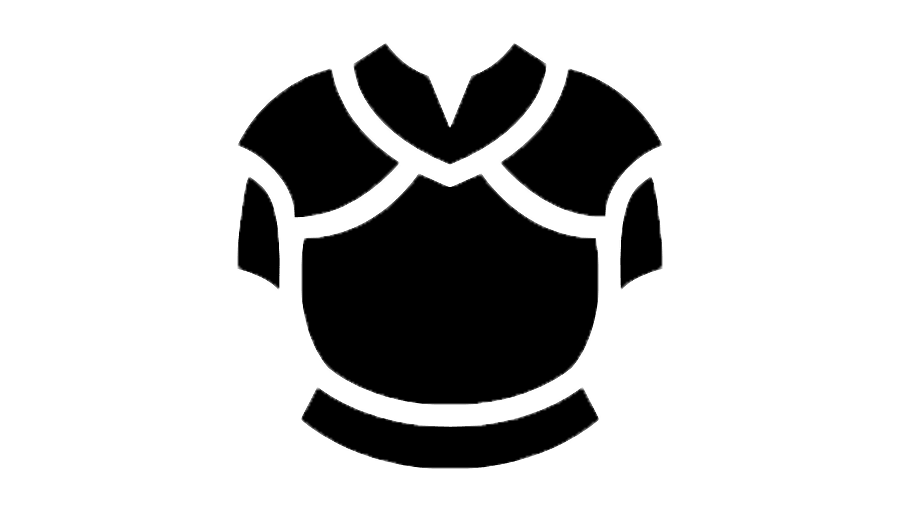
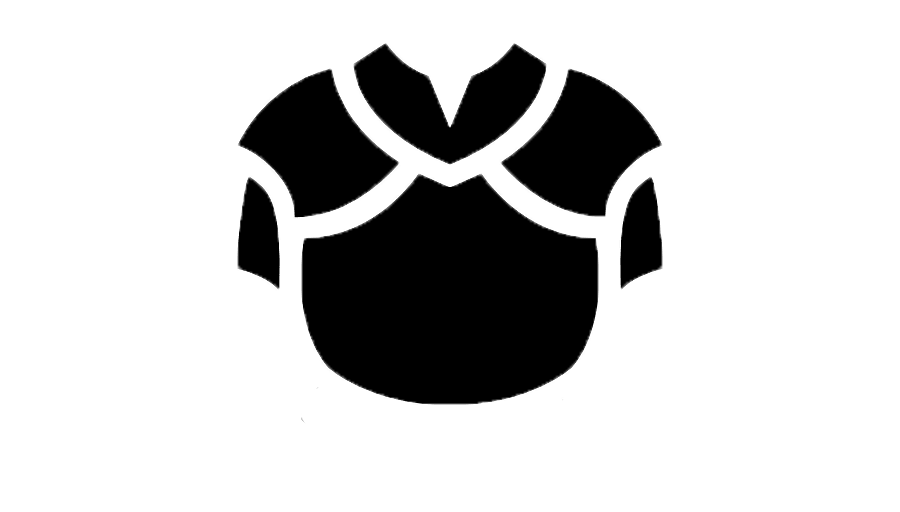
feat: added Constants for image paths feat: new Backside Box in selectedGearBox.fxml and iimplemented it in SelectedGearBoxController feat: new Images

Changed region(s): [[0.3422, 0.75, 0.6844, 0.9375]]

diff --git a/src/main/java/de/cLandow/dsaKampftool/controller/subcontroller/SelectedGearBoxController.java b/src/main/java/de/cLandow/dsaKampftool/controller/subcontroller/SelectedGearBoxController.java
@@ -62,9 +62,9 @@ public class SelectedGearBoxController implements RenderController {
         equipmentControllers.add(headBoxController);
         this.chestBoxController = new EquipmentController(TORSO, BREASTPLATE_IMAGE_PATH);
         equipmentControllers.add(chestBoxController);
-        this.backsideBoxController = new EquipmentController(BACKSIDE, BREASTPLATE_IMAGE_PATH);
+        this.backsideBoxController = new EquipmentController(BACKSIDE, BACKSIDEPLATE_IMAGE_PATH);
         equipmentControllers.add(chestBoxController);
-        this.tummyBoxController = new EquipmentController(TUMMY, PLATE_IMAGE_PATH);
+        this.tummyBoxController = new EquipmentController(TUMMY, TUMMYPLATE_IMAGE_PATH);
         equipmentControllers.add(tummyBoxController);
         this.leftArmBoxController = new EquipmentController(LEFT_ARM, LEFTGLOVE_IMAGE_PATH);
         equipmentControllers.add(leftArmBoxController);
@@ -122,27 +122,35 @@ public class SelectedGearBoxController implements RenderController {
             switch (zone) {
                 case HEAD_ARMOR -> {
                     headBoxController.changeIconToSetMode();
+                    headBoxController.setGear(armor);
                 }
                 case CHEST_ARMOR -> {
-
+                    chestBoxController.changeIconToSetMode();
+                    chestBoxController.setGear(armor);
                 }
                 case BACKSIDE_ARMOR -> {
-                    //selectedGearBoxController.setArmor((Armor) gear);
+                    backsideBoxController.changeIconToSetMode();
+                    backsideBoxController.setGear(armor);
                 }
                 case TUMMY_ARMOR -> {
-                    //selectedGearBoxController.setMainWeapon((Weapon_closeCombat) gear);
+                    tummyBoxController.changeIconToSetMode();
+                    tummyBoxController.setGear(armor);
                 }
                 case LEFTARM_ARMOR -> {
-                    //selectedGearBoxController.setArmor((Armor) gear);
+                    leftArmBoxController.changeIconToSetMode();
+                    leftArmBoxController.setGear(armor);
                 }
                 case RIGHTARM_ARMOR -> {
-                    //selectedGearBoxController.setMainWeapon((Weapon_closeCombat) gear);
+                    rightArmBoxController.changeIconToSetMode();
+                    rightArmBoxController.setGear(armor);
                 }
                 case LEFTLEG_ARMOR -> {
-                    //selectedGearBoxController.setArmor((Armor) gear);
+                    leftLegBoxController.changeIconToSetMode();
+                    leftLegBoxController.setGear(armor);
                 }
                 case RIGHTLEG_ARMOR -> {
-                    //selectedGearBoxController.setArmor((Armor) gear);
+                    rightLegBoxController.changeIconToSetMode();
+                    rightLegBoxController.setGear(armor);
                 }
                 default -> {
                     System.out.println("Unidentified Gear Class");

diff --git a/src/main/java/de/cLandow/dsaKampftool/Constants.java b/src/main/java/de/cLandow/dsaKampftool/Constants.java
@@ -80,6 +80,7 @@ public class Constants {
 
     //Gear Class
     public static final String CLOSECOMBATCLASS = "class de.cLandow.dsaKampftool.model.Weapon_closeCombat";
+    public static final String ARMORCLASS = "class de.cLandow.dsaKampftool.model.Armor";
 
 
     //Images
@@ -88,9 +89,11 @@ public class Constants {
     public static final String SIDEWEAPON_IMAGE_PATH = "src/main/resources/de/cLandow/dsaKampftool/images/sideWeapon_set.png";
     public static final String SHIELD_IMAGE_PATH = "src/main/resources/de/cLandow/dsaKampftool/images/shield_set.png";
     public static final String BREASTPLATE_IMAGE_PATH = "src/main/resources/de/cLandow/dsaKampftool/images/breastPlate_set.png";
+
+    public static final String BACKSIDEPLATE_IMAGE_PATH = "src/main/resources/de/cLandow/dsaKampftool/images/backsidePlate_set.png";
     public static final String HELMET_IMAGE_PATH = "src/main/resources/de/cLandow/dsaKampftool/images/helmetIcon_set.png";
 
-    public static final String PLATE_IMAGE_PATH = "src/main/resources/de/cLandow/dsaKampftool/images/breastPlate_set.png";
+    public static final String TUMMYPLATE_IMAGE_PATH = "src/main/resources/de/cLandow/dsaKampftool/images/tummyPlate_set.png";
     public static final String LEFTBOOT_IMAGE_PATH = "src/main/resources/de/cLandow/dsaKampftool/images/leftBoot_set.png";
     public static final String RIGHTBOOT_IMAGE_PATH = "src/main/resources/de/cLandow/dsaKampftool/images/rightBoot_set.png";
     public static final String LEFTGLOVE_IMAGE_PATH = "src/main/resources/de/cLandow/dsaKampftool/images/leftGloveIcon_set.png";

diff --git a/src/main/java/de/cLandow/dsaKampftool/controller/subcontroller/AddGearPopupController.java b/src/main/java/de/cLandow/dsaKampftool/controller/subcontroller/AddGearPopupController.java
@@ -16,8 +16,7 @@ import javafx.scene.layout.VBox;
 
 import java.io.IOException;
 
-import static de.cLandow.dsaKampftool.Constants.ARMOR;
-import static de.cLandow.dsaKampftool.Constants.CLOSECOMBATCLASS;
+import static de.cLandow.dsaKampftool.Constants.*;
 
 public class AddGearPopupController implements RenderController {
 
@@ -73,7 +72,7 @@ public class AddGearPopupController implements RenderController {
                 case CLOSECOMBATCLASS -> {
                     selectedGearBoxController.setMainWeapon((Weapon_closeCombat) gear);
                 }
-                case ARMOR -> {
+                case ARMORCLASS -> {
                     selectedGearBoxController.setArmor((Armor) gear);
                 }
                 default -> {
